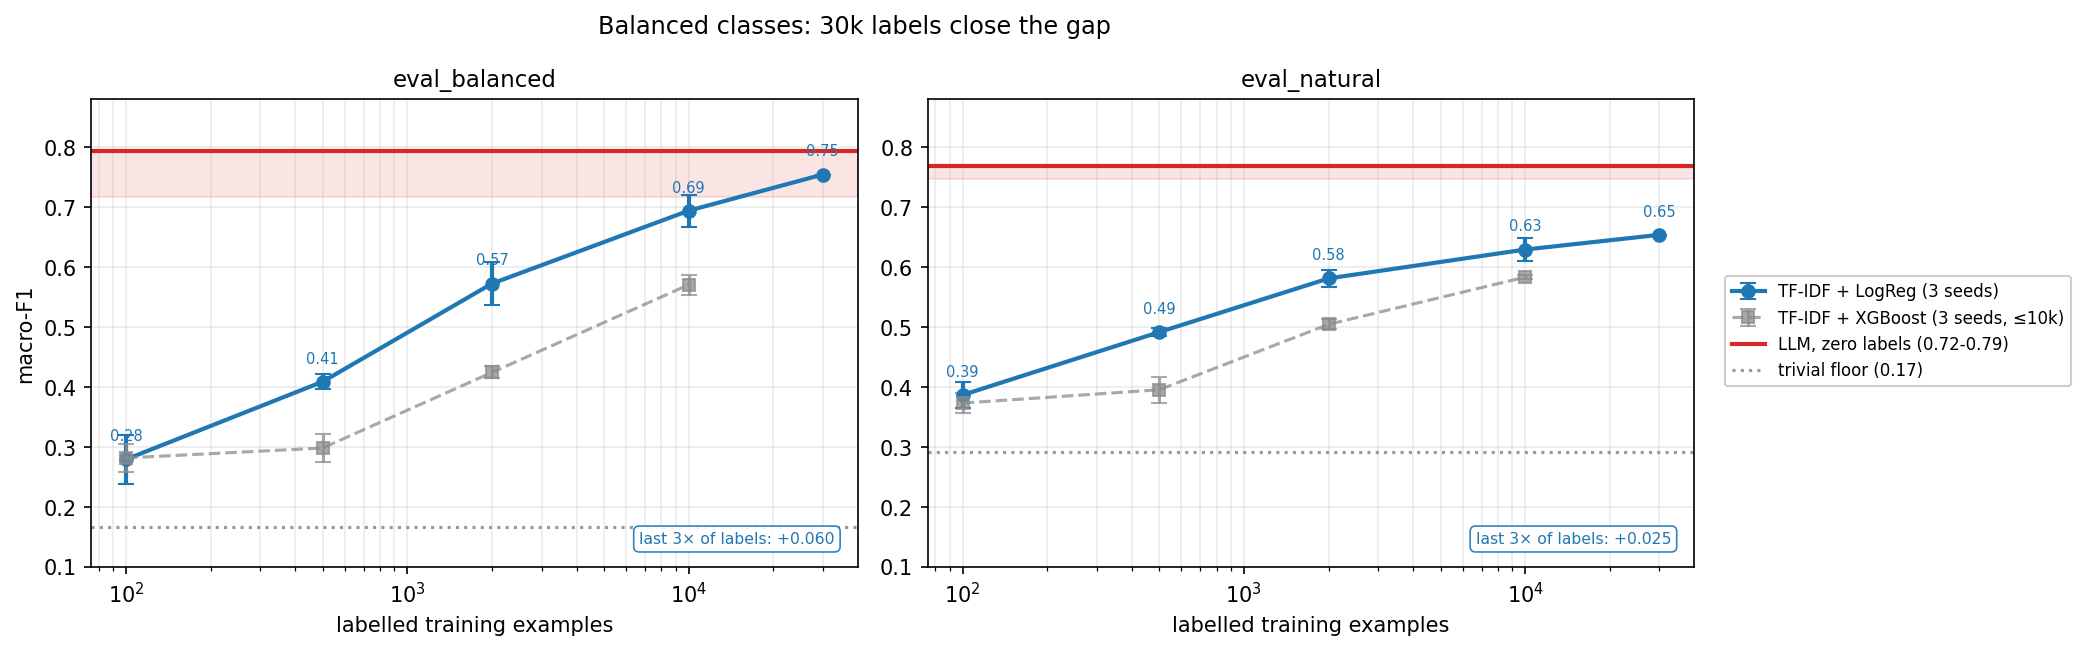
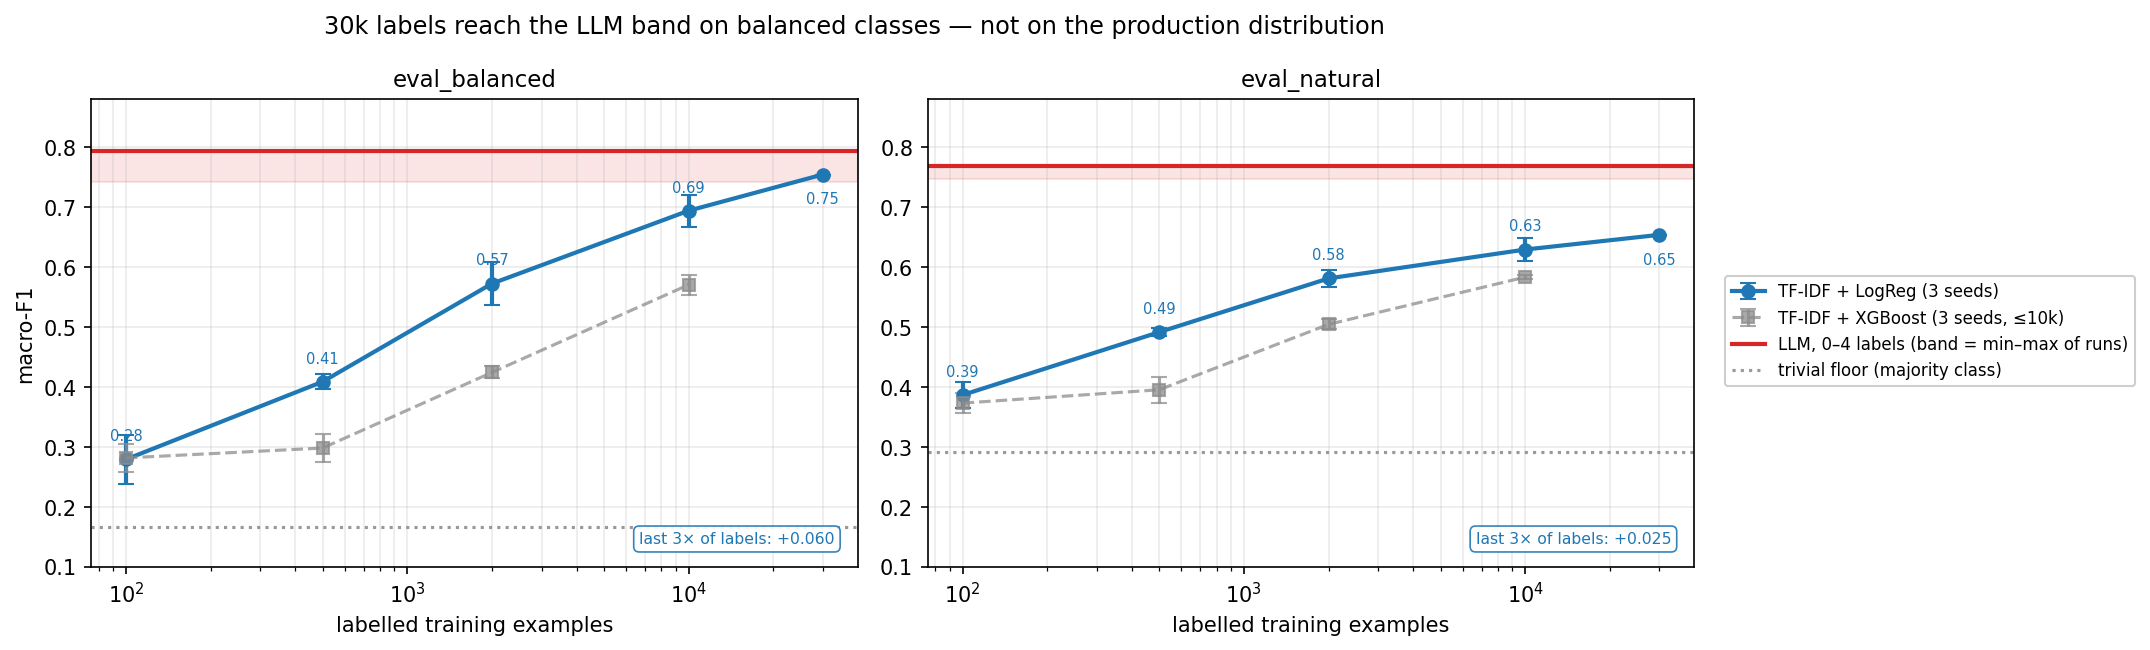
refactoring

diff --git a/scripts/plot_learning_curve.py b/scripts/plot_learning_curve.py
@@ -1,6 +1,6 @@
 """Learning Curve + LLM Reference Band
   log x-ekseni : 100→30.000 on a linear axis, the first three points are clustered;
-    a log scale makes the shape of the curve visible and shows that it is NOT SATURATED.
+    a log scale makes the shape of the curve visible.
 
   LLM as a BAND : We measured that setting `temperature=0` is not deterministic (same model,
     same prompt, a 1.6–2.5-point difference across runs). A single line hides this
@@ -28,8 +28,11 @@ def load():
     return curve, runs
 
 def main() -> None:
-    curve, runs = load()
-    llm_all = runs[runs["method"].isin(["zero_shot", "few_shot"])]
+    curve, runs = load()    
+    llm_all = (runs[runs["method"].isin(["zero_shot", "few_shot"])]
+           .sort_values("timestamp")
+           .drop_duplicates(subset=["method", "model", "eval_set"], keep="last"))
+    
     trivial = runs[runs["method"] == "trivial_majority"]
 
     fig, axes = plt.subplots(1, 2, figsize=(11.5, 4.4), sharey=True)
@@ -54,8 +57,10 @@ def main() -> None:
                         color=COLORS[kind], label=label)
 
             if kind == "logreg":
+                last_x = agg.index[-1]
                 for x, y in agg["mean"].items():
-                    ax.annotate(f"{y:.2f}", xy=(x, y), xytext=(0, 9),
+                    dy = -14 if x == last_x else 9
+                    ax.annotate(f"{y:.2f}", xy=(x, y), xytext=(0, dy),
                                 textcoords="offset points", ha="center",
                                 fontsize=7, color=COLORS["logreg"])
 
@@ -65,14 +70,14 @@ def main() -> None:
             lo, hi = float(sub.min()), float(sub.max())
             ax.axhspan(lo, hi, alpha=0.12, color=COLORS["llm"], zorder=0)
             ax.axhline(hi, color=COLORS["llm"], lw=2,
-                       label=f"LLM, zero labels ({lo:.2f}-{hi:.2f})")
+                       label=f"LLM, 0–4 labels (band = min–max of runs)")
 
         # --- trivial base ---
         t = trivial.loc[trivial["eval_set"] == ev, "macro_f1"]
         if not t.empty:
             floor = float(t.iloc[0])
             ax.axhline(floor, color=COLORS["floor"], ls=":", lw=1.5,
-                       label=f"trivial floor ({floor:.2f})")
+                       label=f"trivial floor (majority class)")
 
         # --- final meausure ---
         if "logreg" in aggs and len(aggs["logreg"]) >= 2:
@@ -100,7 +105,8 @@ def main() -> None:
                loc="center left", bbox_to_anchor=(1.0, 0.5), fontsize=8,
                framealpha=0.95)
 
-    fig.suptitle("Balanced classes: 30k labels close the gap", fontsize=11.5)
+    fig.suptitle("30k labels reach the LLM band on balanced classes — "
+                 "not on the production distribution", fontsize=11.5)
     plt.tight_layout()
     
 

diff --git a/scripts/tune_prompt.py b/scripts/tune_prompt.py
@@ -10,7 +10,7 @@ import pandas as pd
 from dotenv import load_dotenv
 from sklearn.metrics import classification_report, confusion_matrix, f1_score
 
-from src.config import DATA_PROCESSED, RESULTS, LABELS, LLM_MODEL
+from src.config import DATA_PROCESSED, PREDICTIONS, LABELS, LLM_MODEL
 from src.llm import get_provider, provider_for, assert_model_available
 from src.llm_classify import classify_all
 from src.prompts import (SYSTEM, SYSTEM_VERSION, SYSTEM_FEWSHOT, FEWSHOT_VERSION)
@@ -37,7 +37,7 @@ assert_model_available(p)
 
 res = classify_all(p, dev["text"].tolist(), system=system,
                    desc=f"dev/{tag}",
-                   checkpoint=RESULTS / f"partial_dev_{tag}.csv")
+                   checkpoint=PREDICTIONS / f"partial_dev_{tag}.csv")
 
 if len(res) < len(dev):
     raise SystemExit(f"INCOMPLETE RUN ({len(res)}/{len(dev)}) — isnot logged")
@@ -80,7 +80,7 @@ acc = ok.assign(correct=ok["pred"] == ok["true"]).groupby(
 print(acc.to_string())
 
 # --- zero-shot ---
-prev = RESULTS / "dev_zeroshot_preds.csv"
+prev = PREDICTIONS / "dev_zeroshot_preds.csv"
 if few and prev.exists():
     base = pd.read_csv(prev)
     m = base.merge(ok[["text", "pred"]], on="text", suffixes=("_zs", "_fs"))
@@ -95,5 +95,5 @@ for _, r in wrong.head(10).iterrows():
     print(f"[{r['true']} → {r['pred']}, conf={r['confidence']}] {r['reason']}")
     print(f"    {r['text'][:170]}\n")
 
-res.to_csv(RESULTS / f"dev_{tag}_preds.csv", index=False)
+res.to_csv(PREDICTIONS / f"dev_{tag}_preds.csv", index=False)
 print(f"records: results/dev_{tag}_preds.csv")

diff --git a/scripts/error_overlap.py b/scripts/error_overlap.py
@@ -1,6 +1,19 @@
 """
-Do the baseline and LLM make the same mistakes on the same examples?
-McNemar test: Is the difference statistically significant?
+Do the baseline and the LLM fail on the same examples — and is the gap between
+them real?
+Three questions, three measures:
+  error overlap : Jaccard of the two error sets. Low overlap means the methods are
+                  complementary and a router between them has room to gain.
+  significance  : paired bootstrap on macro-F1 (PRIMARY — it is the reported
+                  metric). McNemar is kept alongside because it tests accuracy,
+                  a different question; where they disagree, trust the bootstrap.
+  oracle        : score if a perfect router picked whichever method was right,
+                  in macro-F1 and accuracy. Accuracy understates the natural-set
+                  gain because the majority class already sits near the ceiling.
+
+Scope of the intervals: eval-set sampling only. LLM run-to-run variance at
+temperature=0 (~±0.025) and baseline seed variance (~±0.02-0.03) are not
+included.
 """
 from itertools import product
 

diff --git a/src/llm_classify.py b/src/llm_classify.py
@@ -1,9 +1,10 @@
 """
-LLM classification run: training, validation, evaluation.
-Measurement guidelines:
-  - Latency is measured per request; it does NOT include retry wait times
-  - Token counts are taken from the provider’s “usage” field, not estimated
-  - Parsing errors are flagged separately from model errors
+LLM classification run: call, validate, measure.
+Measurement notes:
+  - Latency wraps the retry decorator, so it INCLUDES backoff waits on retried
+    calls. p50 is unaffected in practice; tail percentiles are not (see README §5).
+  - Token counts are taken from the provider's `usage` field, not estimated
+  - Schema failures are flagged separately from model errors
 """
 import json
 import re

diff --git a/src/data.py b/src/data.py
@@ -16,7 +16,7 @@ from src.config import (DATA_PROCESSED, SEED, POOL_SIZE, EVAL_SIZE, EVAL_BAL_SIZ
 CHUNK = 100_000
 DATASET = "snap/amazon-fine-food-reviews"
 MIN_CHARS, MAX_CHARS = 20, 1500
-NEEDED = POOL_SIZE + EVAL_SIZE + DEV_SIZE
+NEEDED = POOL_SIZE + EVAL_SIZE + EVAL_BAL_SIZE + DEV_SIZE
 
 HTML_TAG = r"<[^>]+>"
 WHITESPACE = r"\s+"
@@ -148,3 +148,4 @@ if __name__ == "__main__":
 
     print("\neval_natural dist:\n", eval_nat["label"].value_counts().to_string())
     print("\neval_balanced dist:\n", eval_bal["label"].value_counts().to_string())
+    print(f"{'remaining':24s}: {len(df):,}")

diff --git a/src/config.py b/src/config.py
@@ -26,11 +26,10 @@ LLM_MODEL = "openai/gpt-oss-120b"
 BENCH_MODELS_FREE = ["openai/gpt-oss-20b", "openai/gpt-oss-120b"]
 BENCH_MODELS_PAID = ["claude-haiku-4-5-20251001"]
 
-# for REPORTING purposes.. actual spending on the Groq free tier is $0
 PRICING = {
     "openai/gpt-oss-20b":         (0.075, 0.30),
     "openai/gpt-oss-120b":        (0.15,  0.60),
-    "claude-haiku-4-5-20251001":  (1.00,  3.00),
+    "claude-haiku-4-5-20251001":  (1.00,  5.00),
 }
 
 DAILY_TPD = {

diff --git a/src/baseline.py b/src/baseline.py
@@ -180,7 +180,6 @@ if __name__ == "__main__":
     print(summarise(curve, "f1_neutral").to_string(index=False))
  
     print("\n########## README MAIN TABLE (largest n, mean of seeds) ##########")
-    biggest = curve[curve["n_train"] == curve["n_train"].max()]
     for kind in curve["model"].unique():
         for ev in EVAL_NAMES:
             g = curve[(curve["model"] == kind) & (curve["eval_set"] == ev)]

diff --git a/scripts/confidence_analysis.py b/scripts/confidence_analysis.py
@@ -83,7 +83,6 @@ def analyse(path: Path) -> dict | None:
             "n_pred_neutral": int(pred_counts["neutral"]),
             "n_auto": len(sub), "n_human": n_human,
             "human_per_1k": round(n_human / len(d) * 1000 * REVIEW_USD, 2),
-            "n_human": n_human,
             "valid": bool((pred_counts >= MIN_PRED_PER_CLASS).all()),
         })
 

diff --git a/scripts/run_llm.py b/scripts/run_llm.py
@@ -62,7 +62,6 @@ for model in models:
     for eval_name, ev in EVALS.items():
         print(f"\n{'=' * 60}\n{method} | {model} @ eval_{eval_name} (n={len(ev)})\n{'=' * 60}")
 
-        # few-shot prompt'u ~3.5x uzun; bütçe tahmini bunu yansıtmalı
         tok_in = 180 + extra_tok
         guard_budget(len(ev), model, provider=p.name)
 

diff --git a/results/analysis/fewshot_candidates.md b/results/analysis/fewshot_candidates.md
@@ -15,6 +15,15 @@ Candidate pool: **5,897**
 Contrast-marker rate is highest for neutral — consistent with the EDA
 finding, though the margin is modest.
 
+## Selected (4)
+
+| id | label | why |
+|---|---|---|
+| [11944] | neutral | canonical "overall … okay" verdict after weighing |
+| [23432] | neutral | unmet expectation, no advice to avoid |
+| [5457] | negative | same structure as [23432], but ends "suggest avoiding" — the boundary |
+| [22890] | positive | opens "okay", prefers a competitor, lists flaws — yet rated 4–5 stars |
+
 ## NEGATIVE
 
 **[24998]** (207 chars)
